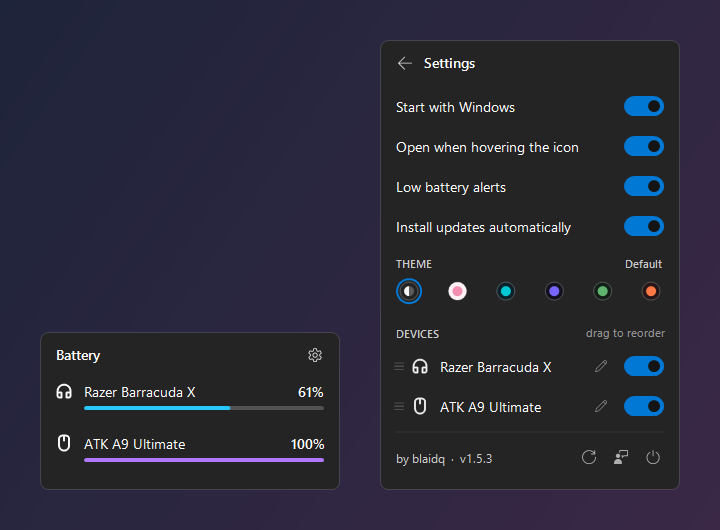
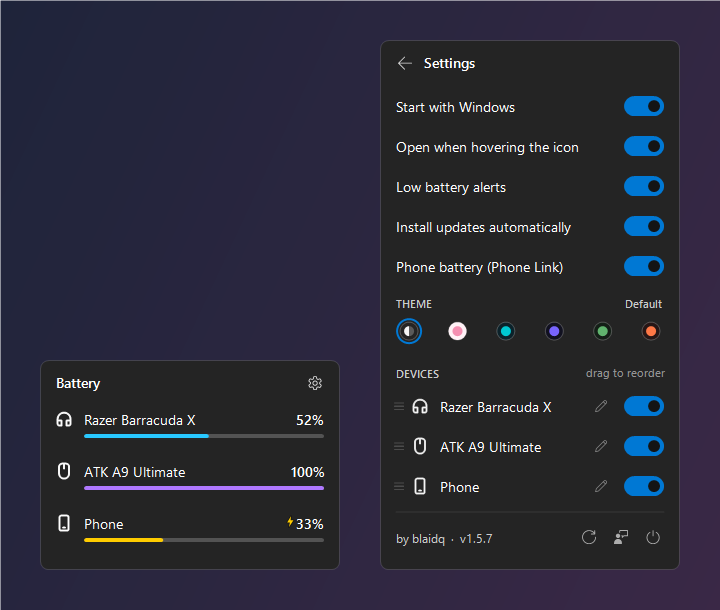
v1.5.7: phone battery through Phone Link (opt-in)
- New setting 'Phone battery (Phone Link)', off by default: reads the phone's
  battery and charging state from Phone Link's Start menu card file
- Phone device kind and icon
- Charging: percentage stays in the normal text colour, only the bolt is yellow
- Problem reports never include the phone's name
- New screenshots, README

diff --git a/src/UI.cs b/src/UI.cs
@@ -13,7 +13,7 @@ using System.Threading;
 using System.Windows.Forms;
 using Microsoft.Win32;
 
-enum Kind { Headset, Mouse, Buds, Gamepad, Keyboard, Other }
+enum Kind { Headset, Mouse, Buds, Gamepad, Keyboard, Other, Phone }
 
 class Slot
 {
@@ -173,7 +173,7 @@ static class Look
     {
         if (kind == Kind.Buds) { Buds(g, box, c); return; }
         string ch = kind == Kind.Headset ? "\uE7F6" : kind == Kind.Mouse ? "\uE962" : kind == Kind.Gamepad ? "\uE7FC"
-                  : kind == Kind.Keyboard ? "\uE765" : "\uE702";
+                  : kind == Kind.Keyboard ? "\uE765" : kind == Kind.Phone ? "\uE8EA" : "\uE702";
         using (var fam = new FontFamily(IconFace))
         using (var path = new GraphicsPath())
         using (var sf = new StringFormat { Alignment = StringAlignment.Center, LineAlignment = StringAlignment.Center })
@@ -205,7 +205,8 @@ static class Look
     }
 
     // Kucuk sarj simsegi (simge koseye)
-    public static void Bolt(Graphics g, PointF at, float h)
+    public static void Bolt(Graphics g, PointF at, float h) { Bolt(g, at, h, ChargeC); }
+    public static void Bolt(Graphics g, PointF at, float h, Color fill)
     {
         float w = h * 0.62f;
         var pts = new[] {
@@ -214,7 +215,7 @@ static class Look
             new PointF(at.X + w * 0.98f, at.Y + h * 0.38f), new PointF(at.X + w * 0.55f, at.Y + h * 0.38f) };
         using (var pen = new Pen(Light ? Color.White : Color.FromArgb(255, 20, 20, 20), 1.6f * K) { LineJoin = LineJoin.Round })
             g.DrawPolygon(pen, pts);
-        using (var br = new SolidBrush(ChargeC)) g.FillPolygon(br, pts);
+        using (var br = new SolidBrush(fill)) g.FillPolygon(br, pts);
     }
 
     public static Color Accent
@@ -410,7 +411,8 @@ class BatteryUI : ApplicationContext
         Diagnostics.Shown = delegate
         {
             var l = new List<string>();
-            foreach (var x in slots) if (x.Active) l.Add(x.RealKind + "  " + (x.RealName ?? x.Name) + "  " + x.Last.Percent + "%" + (x.Last.Charging ? " charging" : ""));
+            // a phone's name is often its owner's name, and reports are public: never include it
+            foreach (var x in slots) if (x.Active) l.Add(x.RealKind + "  " + (x.Id == "phonelink" ? "(Phone Link phone)" : x.RealName ?? x.Name) + "  " + x.Last.Percent + "%" + (x.Last.Charging ? " charging" : ""));
             return l;
         };
         Refresh();
@@ -1007,7 +1009,7 @@ class BatteryUI : ApplicationContext
         bool empty = !settingsView && devs.Count == 0;
 
         float hh = HeadH;
-        if (settingsView) hh += SetRowH * 4 + 30 + ThemeRowH + 30 + Math.Max(1, devs.Count) * SetRowH + 56;
+        if (settingsView) hh += SetRowH * 5 + 30 + ThemeRowH + 30 + Math.Max(1, devs.Count) * SetRowH + 56;
         else if (empty) hh += 64;
         else foreach (var s in devs) hh += Multi(s) ? MultiRowH : RowH;
         hh += 8;
@@ -1143,6 +1145,7 @@ class BatteryUI : ApplicationContext
             Toggle(g, f, L, R, ref y, null, "Open when hovering the icon", Settings.HoverOpen, delegate { Settings.HoverOpen = !Settings.HoverOpen; });
             Toggle(g, f, L, R, ref y, null, "Low battery alerts", Settings.Alerts, delegate { Settings.Alerts = !Settings.Alerts; });
             Toggle(g, f, L, R, ref y, null, "Install updates automatically", Settings.AutoUpdate, delegate { Settings.AutoUpdate = !Settings.AutoUpdate; });
+            Toggle(g, f, L, R, ref y, null, "Phone battery (Phone Link)", Settings.PhoneLink, delegate { Settings.PhoneLink = !Settings.PhoneLink; genericAt = DateTime.MinValue; Refresh(); });
 
             y += 10 * k;
             using (var br = new SolidBrush(sub))
@@ -1376,7 +1379,8 @@ class BatteryUI : ApplicationContext
         string t = text ?? Look.Pct(pct);
         float w = g.MeasureString(t, f, PointF.Empty, sf).Width;
         bool low = !chg && pct >= 0 && pct <= 15;
-        using (var br = new SolidBrush(pct < 0 ? sub : chg ? Look.ChargeC : low ? Look.LowC : fg)) g.DrawString(t, f, br, right - w, y, sf);
+        // charging: the number stays in the normal text colour, only the bolt is in the charge colour
+        using (var br = new SolidBrush(pct < 0 ? sub : low ? Look.LowC : fg)) g.DrawString(t, f, br, right - w, y, sf);
         if (chg && pct >= 0) Look.Bolt(g, new PointF(right - w - 10 * k, y + 2 * k), 11 * k);
     }
 
@@ -1440,6 +1444,7 @@ static class Settings
     public static bool HoverOpen { get { return Get("HoverOpen", true); } set { Set("HoverOpen", value); } }
     public static bool Alerts { get { return Get("Alerts", true); } set { Set("Alerts", value); } }
     public static bool AutoUpdate { get { return Get("AutoUpdate", true); } set { Set("AutoUpdate", value); } }
+    public static bool PhoneLink { get { return Get("PhoneLink", false); } set { Set("PhoneLink", value); } }
     static string theme; // cached: read many times per frame
     public static string Theme
     {
@@ -1501,8 +1506,8 @@ class DeviceEditor : Form
     public Kind Chosen;
     public bool Reset;
     readonly TextBox box = new TextBox();
-    static readonly Kind[] Kinds = { Kind.Headset, Kind.Buds, Kind.Mouse, Kind.Keyboard, Kind.Gamepad, Kind.Other };
-    static readonly string[] KindNames = { "Headset", "Earbuds", "Mouse", "Keyboard", "Controller", "Other" };
+    static readonly Kind[] Kinds = { Kind.Headset, Kind.Buds, Kind.Mouse, Kind.Keyboard, Kind.Gamepad, Kind.Phone, Kind.Other };
+    static readonly string[] KindNames = { "Headset", "Earbuds", "Mouse", "Keyboard", "Controller", "Phone", "Other" };
     readonly Slot slot;
     Color bg, fg;
     int hover = -1;

diff --git a/src/PhoneLink.cs b/src/PhoneLink.cs
@@ -1,0 +1,61 @@
+// Phone battery from Microsoft Phone Link (opt-in, Settings > "Phone battery (Phone Link)").
+// Windows keeps no battery value for a phone, but Phone Link writes the Start menu phone panel as an
+// Adaptive Card to LocalState\StartMenu\StartMenuCompanion.json. That card holds the phone's name (the bold
+// TextBlock) and its battery ("%34" / "34%"). Only these two values are read; the rest of the file
+// (recent messages) is ignored and never stored, logged or put into problem reports.
+using System;
+using System.Collections.Generic;
+using System.IO;
+using System.Text.RegularExpressions;
+
+static class PhoneLink
+{
+    static readonly string CardPath = Path.Combine(
+        Environment.GetFolderPath(Environment.SpecialFolder.LocalApplicationData),
+        @"Packages\Microsoft.YourPhone_8wekyb3d8bbwe\LocalState\StartMenu\StartMenuCompanion.json");
+
+    static DateTime cachedAt = DateTime.MinValue;
+    static string cachedName;
+    static int cachedPct = -1;
+    static bool cachedCharging;
+
+    public static void Read(List<Found> list)
+    {
+        var fi = new FileInfo(CardPath);
+        if (!fi.Exists || fi.Length > 4 * 1024 * 1024) return;
+        if ((DateTime.Now - fi.LastWriteTime).TotalHours > 3) return; // phone not seen for a while
+
+        if (fi.LastWriteTime != cachedAt)
+        {
+            string json;
+            using (var fs = new FileStream(CardPath, FileMode.Open, FileAccess.Read, FileShare.ReadWrite | FileShare.Delete))
+            using (var sr = new StreamReader(fs)) json = sr.ReadToEnd();
+            // battery: the first TextBlock whose text is just a percentage
+            var m = Regex.Match(json, @"""type""\s*:\s*""TextBlock""\s*,\s*""text""\s*:\s*""\s*(%\s*(\d{1,3})|(\d{1,3})\s*%)\s*""");
+            if (!m.Success) return; // file may be half written: try again next time
+            int pct = int.Parse(m.Groups[2].Success ? m.Groups[2].Value : m.Groups[3].Value);
+            if (pct > 100) return;
+            string head = json.Substring(0, m.Index);
+
+            // name: the bold TextBlock before it (keep the last good one if this copy has none)
+            string name = null;
+            foreach (Match n in Regex.Matches(head, @"""type""\s*:\s*""TextBlock""\s*,\s*""text""\s*:\s*""((?:[^""\\]|\\.){1,60})""\s*,\s*""weight""\s*:\s*""Bolder"""))
+                name = n.Groups[1].Value;
+            try { name = name != null ? Regex.Unescape(name).Trim() : null; } catch { name = null; }
+            if (!string.IsNullOrEmpty(name)) cachedName = name;
+
+            // charging: the battery tooltip gets an extra clause, e.g. "Kalan pil %33, şarj oluyor"
+            string tip = null;
+            foreach (Match t in Regex.Matches(head, @"""tooltip""\s*:\s*""((?:[^""\\]|\\.){0,200})"""))
+                tip = t.Groups[1].Value;
+            try { tip = tip != null ? Regex.Unescape(tip).ToLowerInvariant() : ""; } catch { tip = ""; }
+            cachedCharging = tip.Contains(",") || tip.Contains("charg") || tip.Contains("şarj") || tip.Contains("lädt") || tip.Contains("carg");
+
+            cachedPct = pct;
+            cachedAt = fi.LastWriteTime;
+        }
+        if (cachedPct < 0) return;
+        list.Add(new Found { Id = "phonelink", Name = cachedName ?? "Phone", Kind = Kind.Phone,
+            Reading = new Reading { Present = true, Percent = cachedPct, Charging = cachedCharging } });
+    }
+}

diff --git a/src/Program.cs b/src/Program.cs
@@ -15,8 +15,8 @@ using Microsoft.Win32;
 [assembly: AssemblyProduct("BatteryRings")]
 [assembly: AssemblyCompany("BatteryRings")]
 [assembly: AssemblyCopyright("GPL-3.0")]
-[assembly: AssemblyVersion("1.5.6.0")]
-[assembly: AssemblyFileVersion("1.5.6.0")]
+[assembly: AssemblyVersion("1.5.7.0")]
+[assembly: AssemblyFileVersion("1.5.7.0")]
 // Guvenlik: P/Invoke DLL'leri yalnizca System32'den yuklenir (exe'nin yanina konan sahte DLL calismaz)
 [assembly: DefaultDllImportSearchPaths(DllImportSearchPath.System32)]
 
@@ -112,7 +112,7 @@ static class Program
         t += "vendor tarama " + sw.ElapsedMilliseconds + " ms, " + v.Count + " cihaz" + Environment.NewLine;
         foreach (var f in v) t += "vendor " + f.Kind + " pil=" + f.Reading.Percent + Environment.NewLine;
         foreach (var f in GenericDevices.Read())
-            t += "genel " + f.Kind + " pil=" + f.Reading.Percent + (f.Reading.Text != null ? " (" + f.Reading.Text + ")" : "") + Environment.NewLine;
+            t += "genel " + f.Kind + " ad=" + f.Name + " sarj=" + f.Reading.Charging + " pil=" + f.Reading.Percent + (f.Reading.Text != null ? " (" + f.Reading.Text + ")" : "") + Environment.NewLine;
         return t;
     }
 

diff --git a/src/Vendors.cs b/src/Vendors.cs
@@ -605,7 +605,7 @@ static class Diagnostics
         {
             var shown = Shown != null ? Shown() : null;
             if (shown != null) foreach (var x in shown) sb.AppendLine("  " + x);
-            else foreach (var f in GenericDevices.Read()) sb.AppendLine("  " + f.Kind + "  " + f.Name + "  " + f.Reading.Percent + "%");
+            else foreach (var f in GenericDevices.Read()) sb.AppendLine("  " + f.Kind + "  " + (f.Id == "phonelink" ? "(Phone Link phone)" : f.Name) + "  " + f.Reading.Percent + "%");
         }
         catch { }
         return sb.ToString();

diff --git a/src/Generic.cs b/src/Generic.cs
@@ -32,6 +32,7 @@ static class GenericDevices
         try { Bluetooth(bt); } catch { }
         foreach (var f in bt) if (!vendorNames.Contains(f.Name)) list.Add(f); // same device seen twice: keep the detailed one
         try { XInput(list); } catch { }
+        if (Settings.PhoneLink) try { PhoneLink.Read(list); } catch { }
         return list;
     }
 

diff --git a/README.md b/README.md
@@ -17,6 +17,10 @@ Hover over (or click) the icon to see every device in detail.
 - **Xbox / XInput compatible wireless controllers** (Windows only reports four steps: Empty / Low / Medium / Full).
 - **Wireless keyboards and mice that report battery the standard HID way** (common on 2.4 GHz keyboards), which Windows itself does not display.
 
+**Optional:**
+- **Your phone**, through Microsoft Phone Link: battery percentage and charging, the same value Phone Link shows in the Start menu.
+  Off by default; turn on *Phone battery (Phone Link)* in Settings. Needs Phone Link set up with the phone connected.
+
 **Brand protocols:**
 
 | Brand | Devices | Tested |
@@ -41,7 +45,7 @@ Untested rows follow public protocol notes (see *Thanks*). If you own one, pleas
 - The icon shows the first three devices as rings; the panel lists all of them.
 - Devices that are not connected are not shown. With a single device, its icon sits in the middle of the ring;
   with none, the icon is an empty ring and the panel says "No devices found".
-- While charging, the ring turns yellow with a moving light; below 15% it turns red and pulses.
+- While charging, the ring and the bar turn yellow with a moving light and a small bolt appears next to the percentage; below 15% it turns red and pulses.
 - Optional alerts at 25%, 10% and 5%.
 
 ## Settings
@@ -56,6 +60,7 @@ Click the gear in the panel:
 - Footer buttons: check for updates, report a problem, quit
 - Low battery alerts
 - Install updates automatically, and a **Check for updates** button
+- Phone battery (Phone Link), off by default
 - Show or hide each device
 - Quit
 
@@ -120,10 +125,11 @@ user names or file paths.
 | Razer mice / keyboards | 90-byte feature report, power class `0x07`: `0x80` level, `0x84` charging |
 | SteelSeries / HyperX / Corsair | Vendor HID commands per model family |
 | Standard HID | Usages Battery Strength (`0x06:0x20`) and State of Charge (`0x85:0x64-0x66`) |
+| Phone (opt-in) | Phone Link writes its Start menu phone card to `%LOCALAPPDATA%\Packages\Microsoft.YourPhone_8wekyb3d8bbwe\LocalState\StartMenu\StartMenuCompanion.json`; the phone's name, battery percentage and charging state are taken from it |
 
 Code: `src/Devices.cs` (HID devices), `src/Buds.cs` (Bluetooth earbuds), `src/Generic.cs` (generic Bluetooth and XInput),
 `src/Vendors.cs` (Logitech, Razer, ASUS, PlayStation, headsets, standard HID battery), `src/Apple.cs` (AirPods),
-`src/GalaxyBuds.cs` (Samsung),
+`src/GalaxyBuds.cs` (Samsung), `src/PhoneLink.cs` (phone),
 `src/UI.cs` (icon, panel and settings), `src/Program.cs` (install).
 To add a device with dedicated support, define a `Slot` in `UI.cs` and read it in `Refresh`.
 
@@ -136,6 +142,8 @@ To add a device with dedicated support, define a `Slot` in `UI.cs` and read it i
 - It sends devices **read-only** queries and never changes their settings (the mouse's EEPROM write command is never used).
 - System DLLs are loaded from `System32` only, so a fake DLL placed next to the exe is never run.
 - Data coming from devices is parsed from fixed-size buffers with bounds checks.
+- The phone option (off by default) only reads Phone Link's Start menu card file. That file also holds recent notifications;
+  BatteryRings takes only the phone's name, battery percentage and charging state from it and does not store, log or report anything else.
 
 ## Thanks
 
